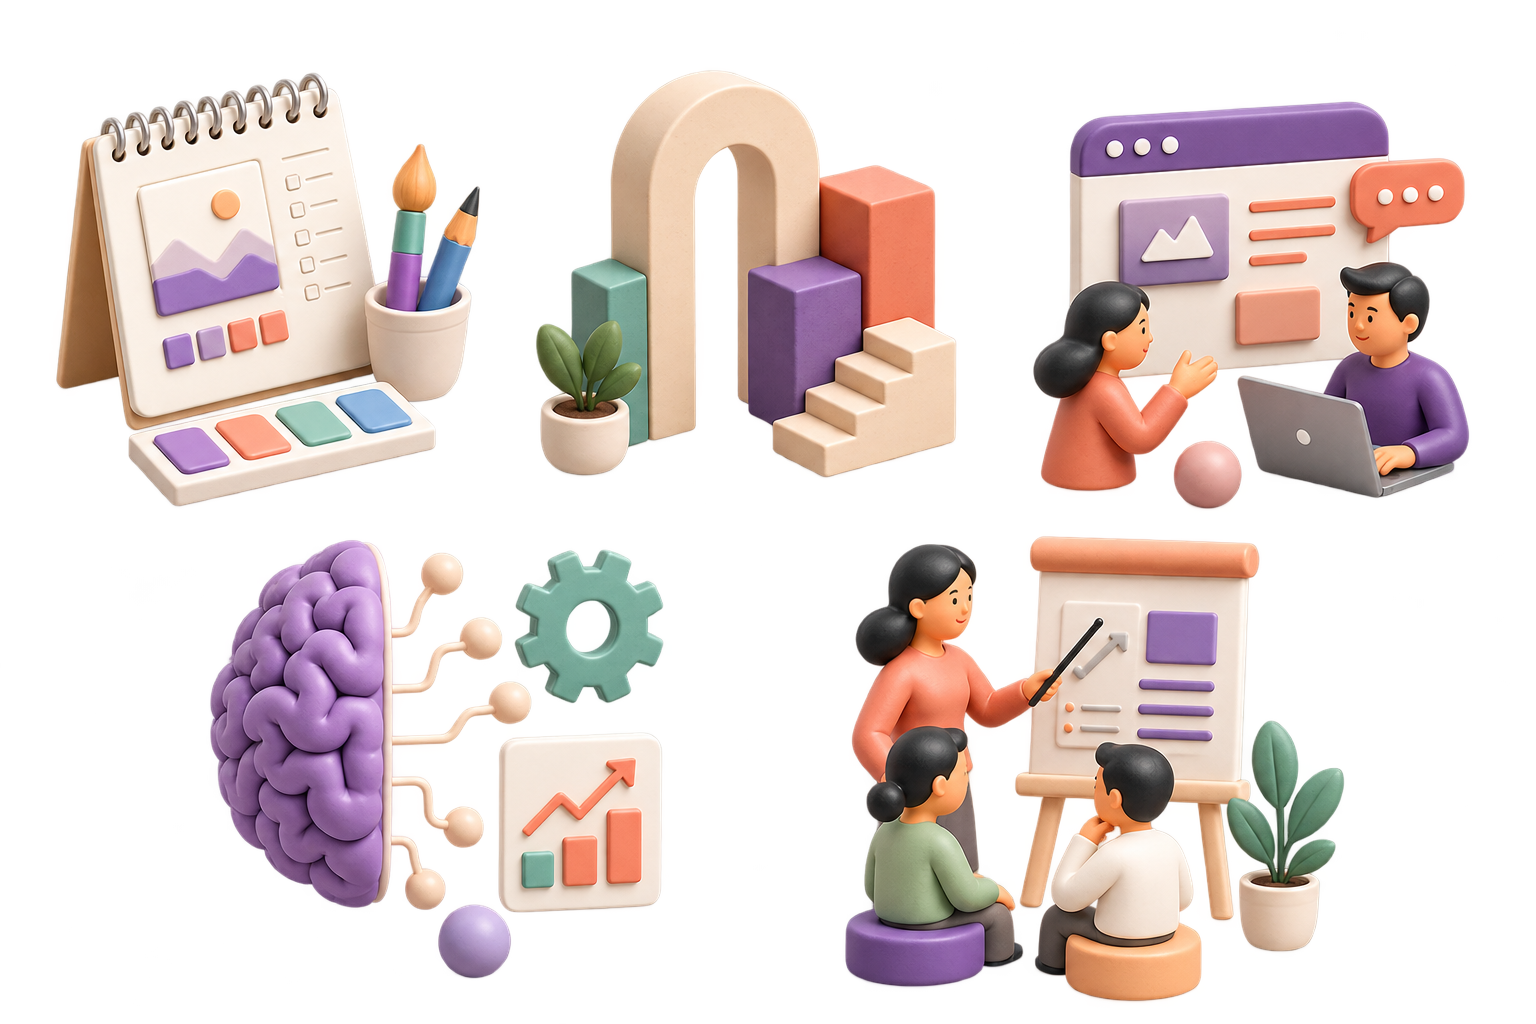
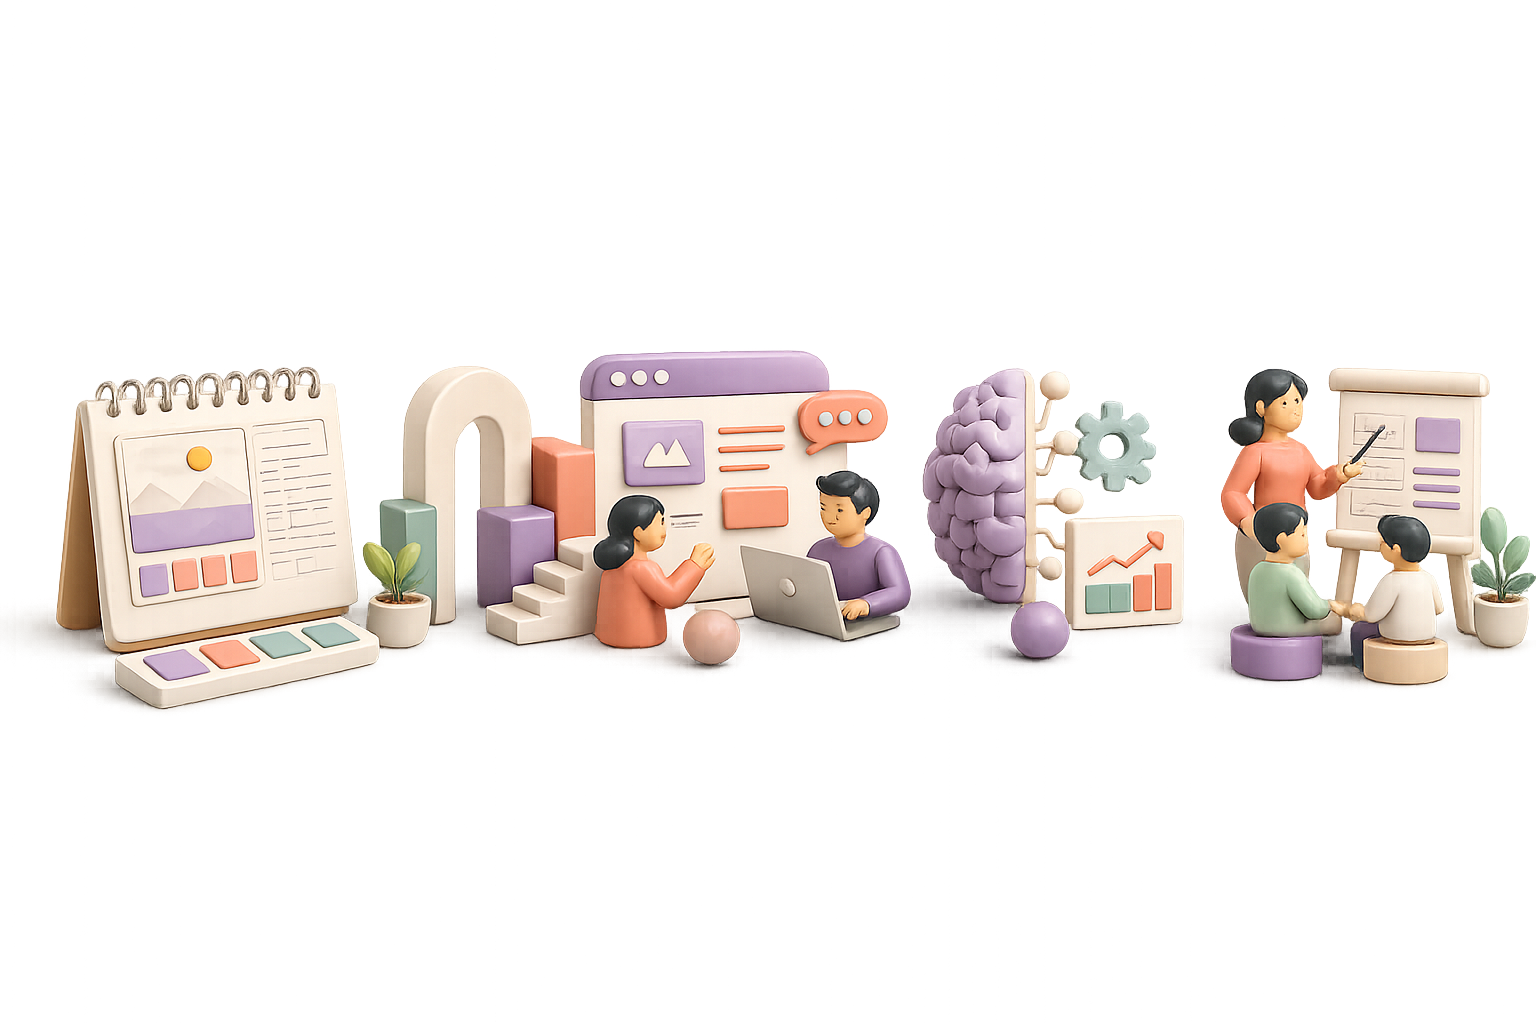
about

diff --git a/about.html b/about.html
@@ -12,7 +12,7 @@
     <link href="/assets/css/bootstrap.min.css" rel="stylesheet">
     <link rel="stylesheet" href="/assets/js/plugins/slick/slick.css">
     <link href="/assets/css/style.css?v=20260805-4" rel="stylesheet">
-    <link href="/assets/css/about-new.css?v=20260809-10" rel="stylesheet">
+    <link href="/assets/css/about-new.css?v=20260809-11" rel="stylesheet">
     <link href="/assets/css/section-eyebrow.css?v=20260809-8" rel="stylesheet">
     <script src="/assets/js/modernizr.js"></script>
 
@@ -264,35 +264,35 @@
                     <ol class="milestone-list">
                         <li class="milestone">
                             <span class="milestone-number">01</span>
-                            <div class="milestone-visual"><span class="milestone-visual__sprite"><img src="/assets/img/about/journey-reference-row.png" width="1983" height="793" loading="lazy" decoding="async" alt="Fine art and design illustration"></span></div>
+                            <div class="milestone-visual"><span class="milestone-visual__sprite"><img src="/assets/img/about/img_journey-finearts.png" width="1536" height="1024" loading="lazy" decoding="async" alt="Fine art and design illustration"></span></div>
                             <h3>Fine Art &amp; Design</h3>
                             <p>Visual Foundation</p>
                             <span class="milestone-tag">Visual foundations</span>
                         </li>
                         <li class="milestone">
                             <span class="milestone-number">02</span>
-                            <div class="milestone-visual"><span class="milestone-visual__sprite"><img src="/assets/img/about/journey-reference-row.png" width="1983" height="793" loading="lazy" decoding="async" alt="Architecture and interactive environments illustration"></span></div>
+                            <div class="milestone-visual"><span class="milestone-visual__sprite"><img src="/assets/img/about/img_journey-b-design.png" width="1536" height="1024" loading="lazy" decoding="async" alt="Architecture and interactive environments illustration"></span></div>
                             <h3>B.Design Architecture &amp; Interactive Environments</h3>
                             <p>Human Experience</p>
                             <span class="milestone-tag">Spatial thinking</span>
                         </li>
                         <li class="milestone">
                             <span class="milestone-number">03</span>
-                            <div class="milestone-visual"><span class="milestone-visual__sprite"><img src="/assets/img/about/journey-reference-row.png" width="1983" height="793" loading="lazy" decoding="async" alt="Human interaction design illustration"></span></div>
+                            <div class="milestone-visual"><span class="milestone-visual__sprite"><img src="/assets/img/about/img_journey-ma-human.png" width="1536" height="1024" loading="lazy" decoding="async" alt="Human interaction design illustration"></span></div>
                             <h3>M.A. Human Interaction Design</h3>
                             <p>Human Interaction Design</p>
                             <span class="milestone-tag">Interaction design</span>
                         </li>
                         <li class="milestone">
                             <span class="milestone-number">04</span>
-                            <div class="milestone-visual"><span class="milestone-visual__sprite"><img src="/assets/img/about/journey-reference-row.png" width="1983" height="793" loading="lazy" decoding="async" alt="Business, innovation, and AI illustration"></span></div>
+                            <div class="milestone-visual"><span class="milestone-visual__sprite"><img src="/assets/img/about/img_journey-mba.png" width="1536" height="1024" loading="lazy" decoding="async" alt="Business, innovation, and AI illustration"></span></div>
                             <h3>MBA AI</h3>
                             <p>Business &amp; Innovation</p>
                             <span class="milestone-tag">Technology &amp; AI</span>
                         </li>
                         <li class="milestone">
                             <span class="milestone-number">05</span>
-                            <div class="milestone-visual"><span class="milestone-visual__sprite"><img src="/assets/img/about/journey-reference-row.png" width="1983" height="793" loading="lazy" decoding="async" alt="Teaching and leadership illustration"></span></div>
+                            <div class="milestone-visual"><span class="milestone-visual__sprite"><img src="/assets/img/about/img_journey-teaching.png" width="1536" height="1024" loading="lazy" decoding="async" alt="Teaching and leadership illustration"></span></div>
                             <h3>Teaching and Leadership</h3>
                             <p>Continuous Learning</p>
                             <span class="milestone-tag">Education &amp; mentorship</span>

diff --git a/assets/css/about-new.css b/assets/css/about-new.css
@@ -475,7 +475,7 @@
 
 .milestone-visual {
     /* Manual control: lower this percentage to make all five illustrations smaller. */
-    --journey-image-size: 90%;
+    --journey-image-size: 110%;
     width: min(100%, 270px);
     aspect-ratio: 1;
     margin: 0 auto 14px;
@@ -496,18 +496,12 @@
 }
 
 .milestone-visual__sprite img {
-    --sprite-x: 0%;
-    width: 500%;
-    max-width: none;
-    height: auto;
-    mix-blend-mode: multiply;
-    transform: translate(var(--sprite-x), -19%);
+    display: block;
+    width: 100%;
+    height: 100%;
+    object-fit: contain;
+    object-position: center;
 }
-
-.milestone:nth-child(2) .milestone-visual__sprite img { --sprite-x: -20%; }
-.milestone:nth-child(3) .milestone-visual__sprite img { --sprite-x: -40%; }
-.milestone:nth-child(4) .milestone-visual__sprite img { --sprite-x: -60%; }
-.milestone:nth-child(5) .milestone-visual__sprite img { --sprite-x: -80%; }
 
 .milestone:hover .milestone-visual {
     transform: translateY(-6px);

diff --git a/portfolio.html b/portfolio.html
@@ -752,7 +752,7 @@
             <img src="/assets/img/get_intouch/img_contact-portfolio.png" alt="Project overview, case study, and wireframe design boards with a color palette and pencils" loading="lazy" decoding="async">
         </div>
         <div class="connect-footer-content">
-            <p class="section-eyebrow section-eyebrow--center">Let’s connect</p>
+            <p class="section-eyebrow section-eyebrow--center">Let’s shape what comes next.</p>
             <h2 id="connect-footer-title-portfolio">Challenges create opportunities to <span class="connect-footer-accent">explore, innovate & make an impact.</span></h2>
             <p class="connect-footer-subtitle">Let’s shape what comes next.</p>
             <div class="connect-footer-actions">
